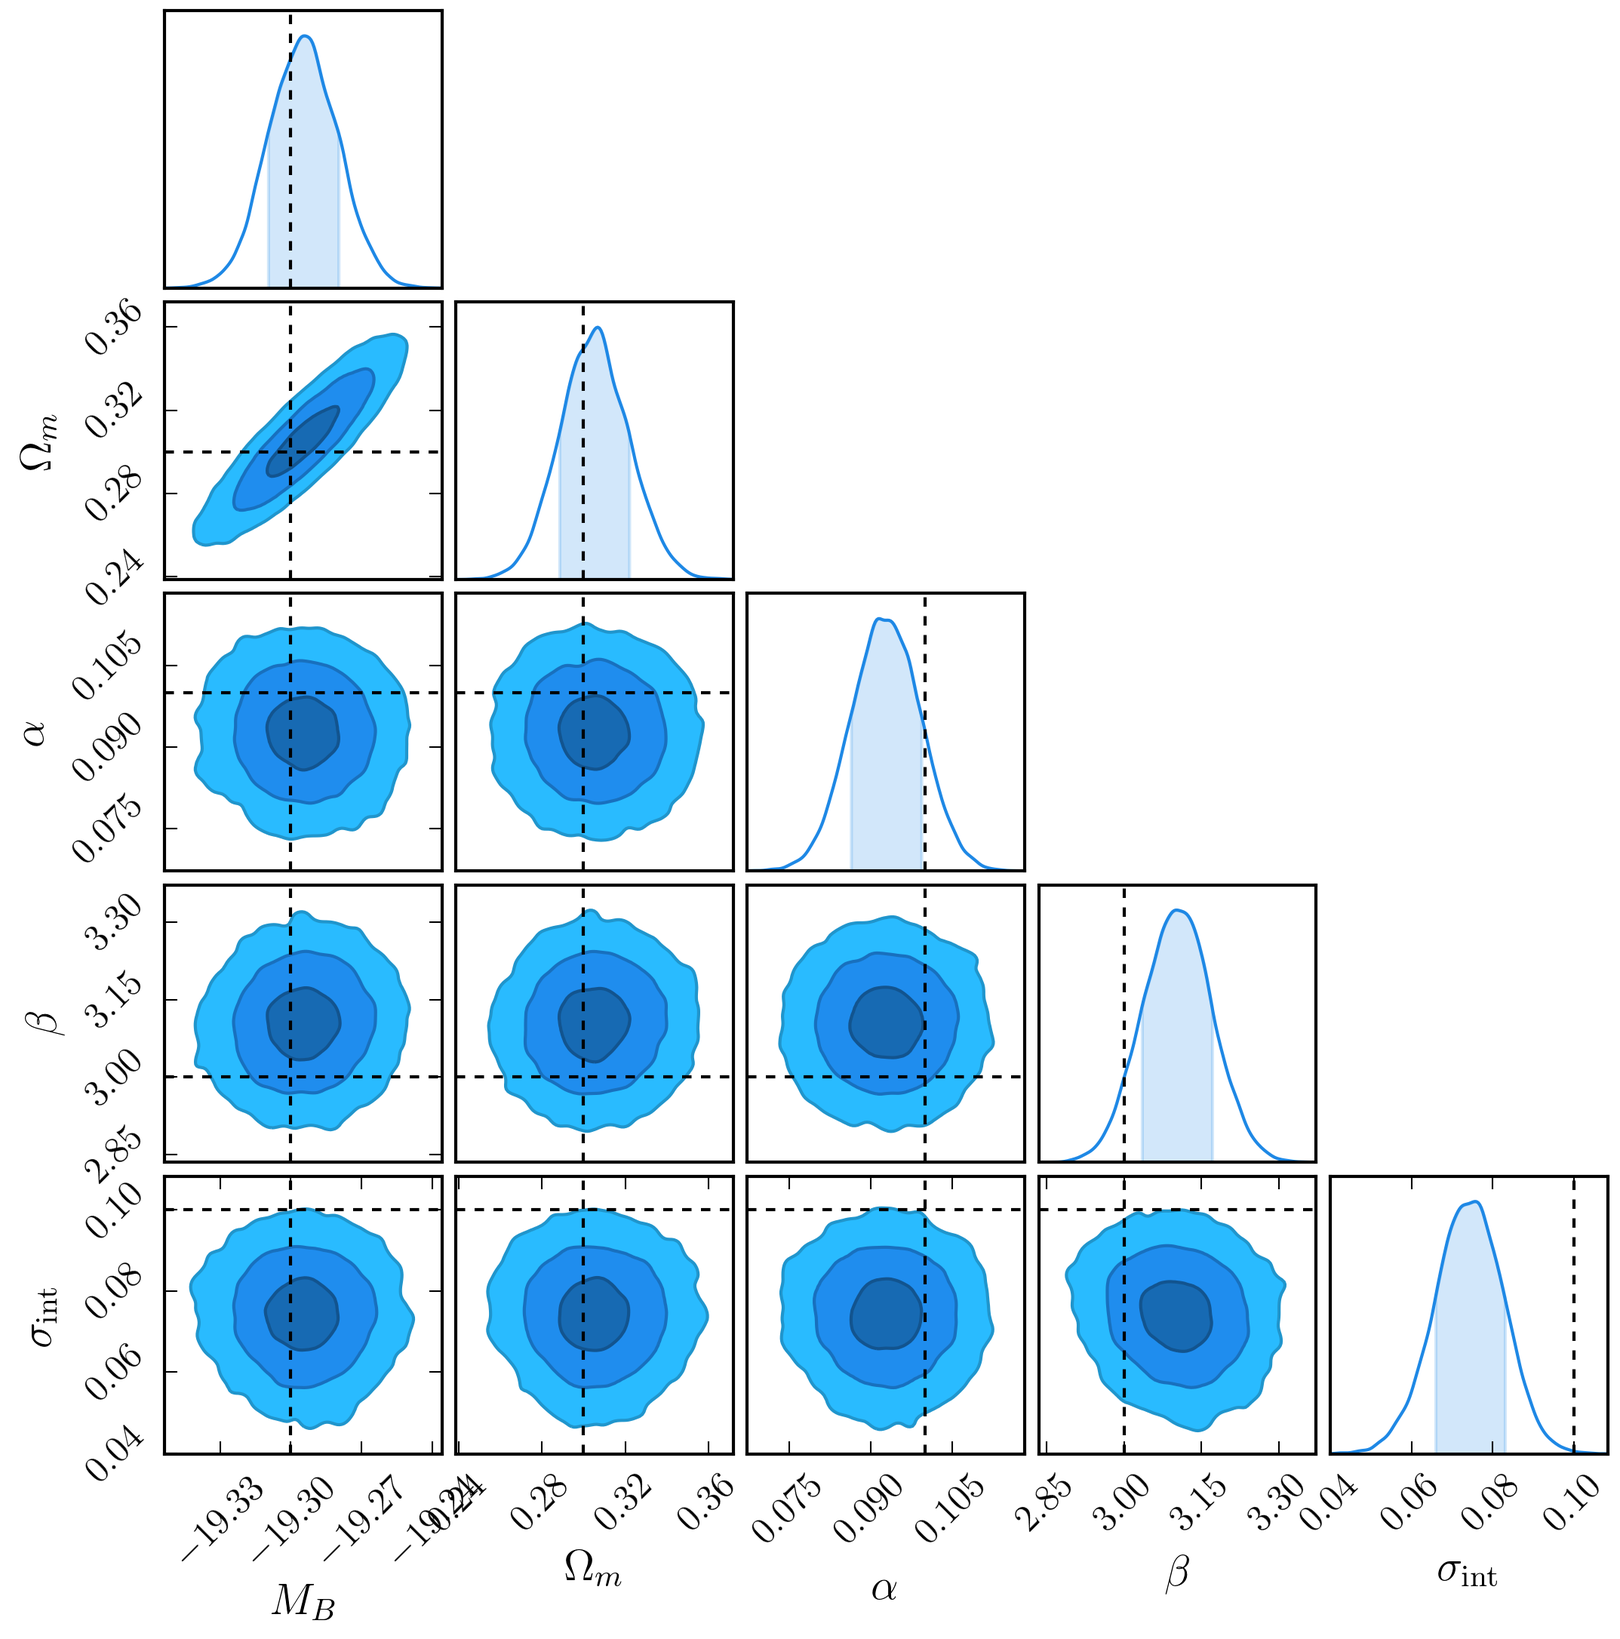
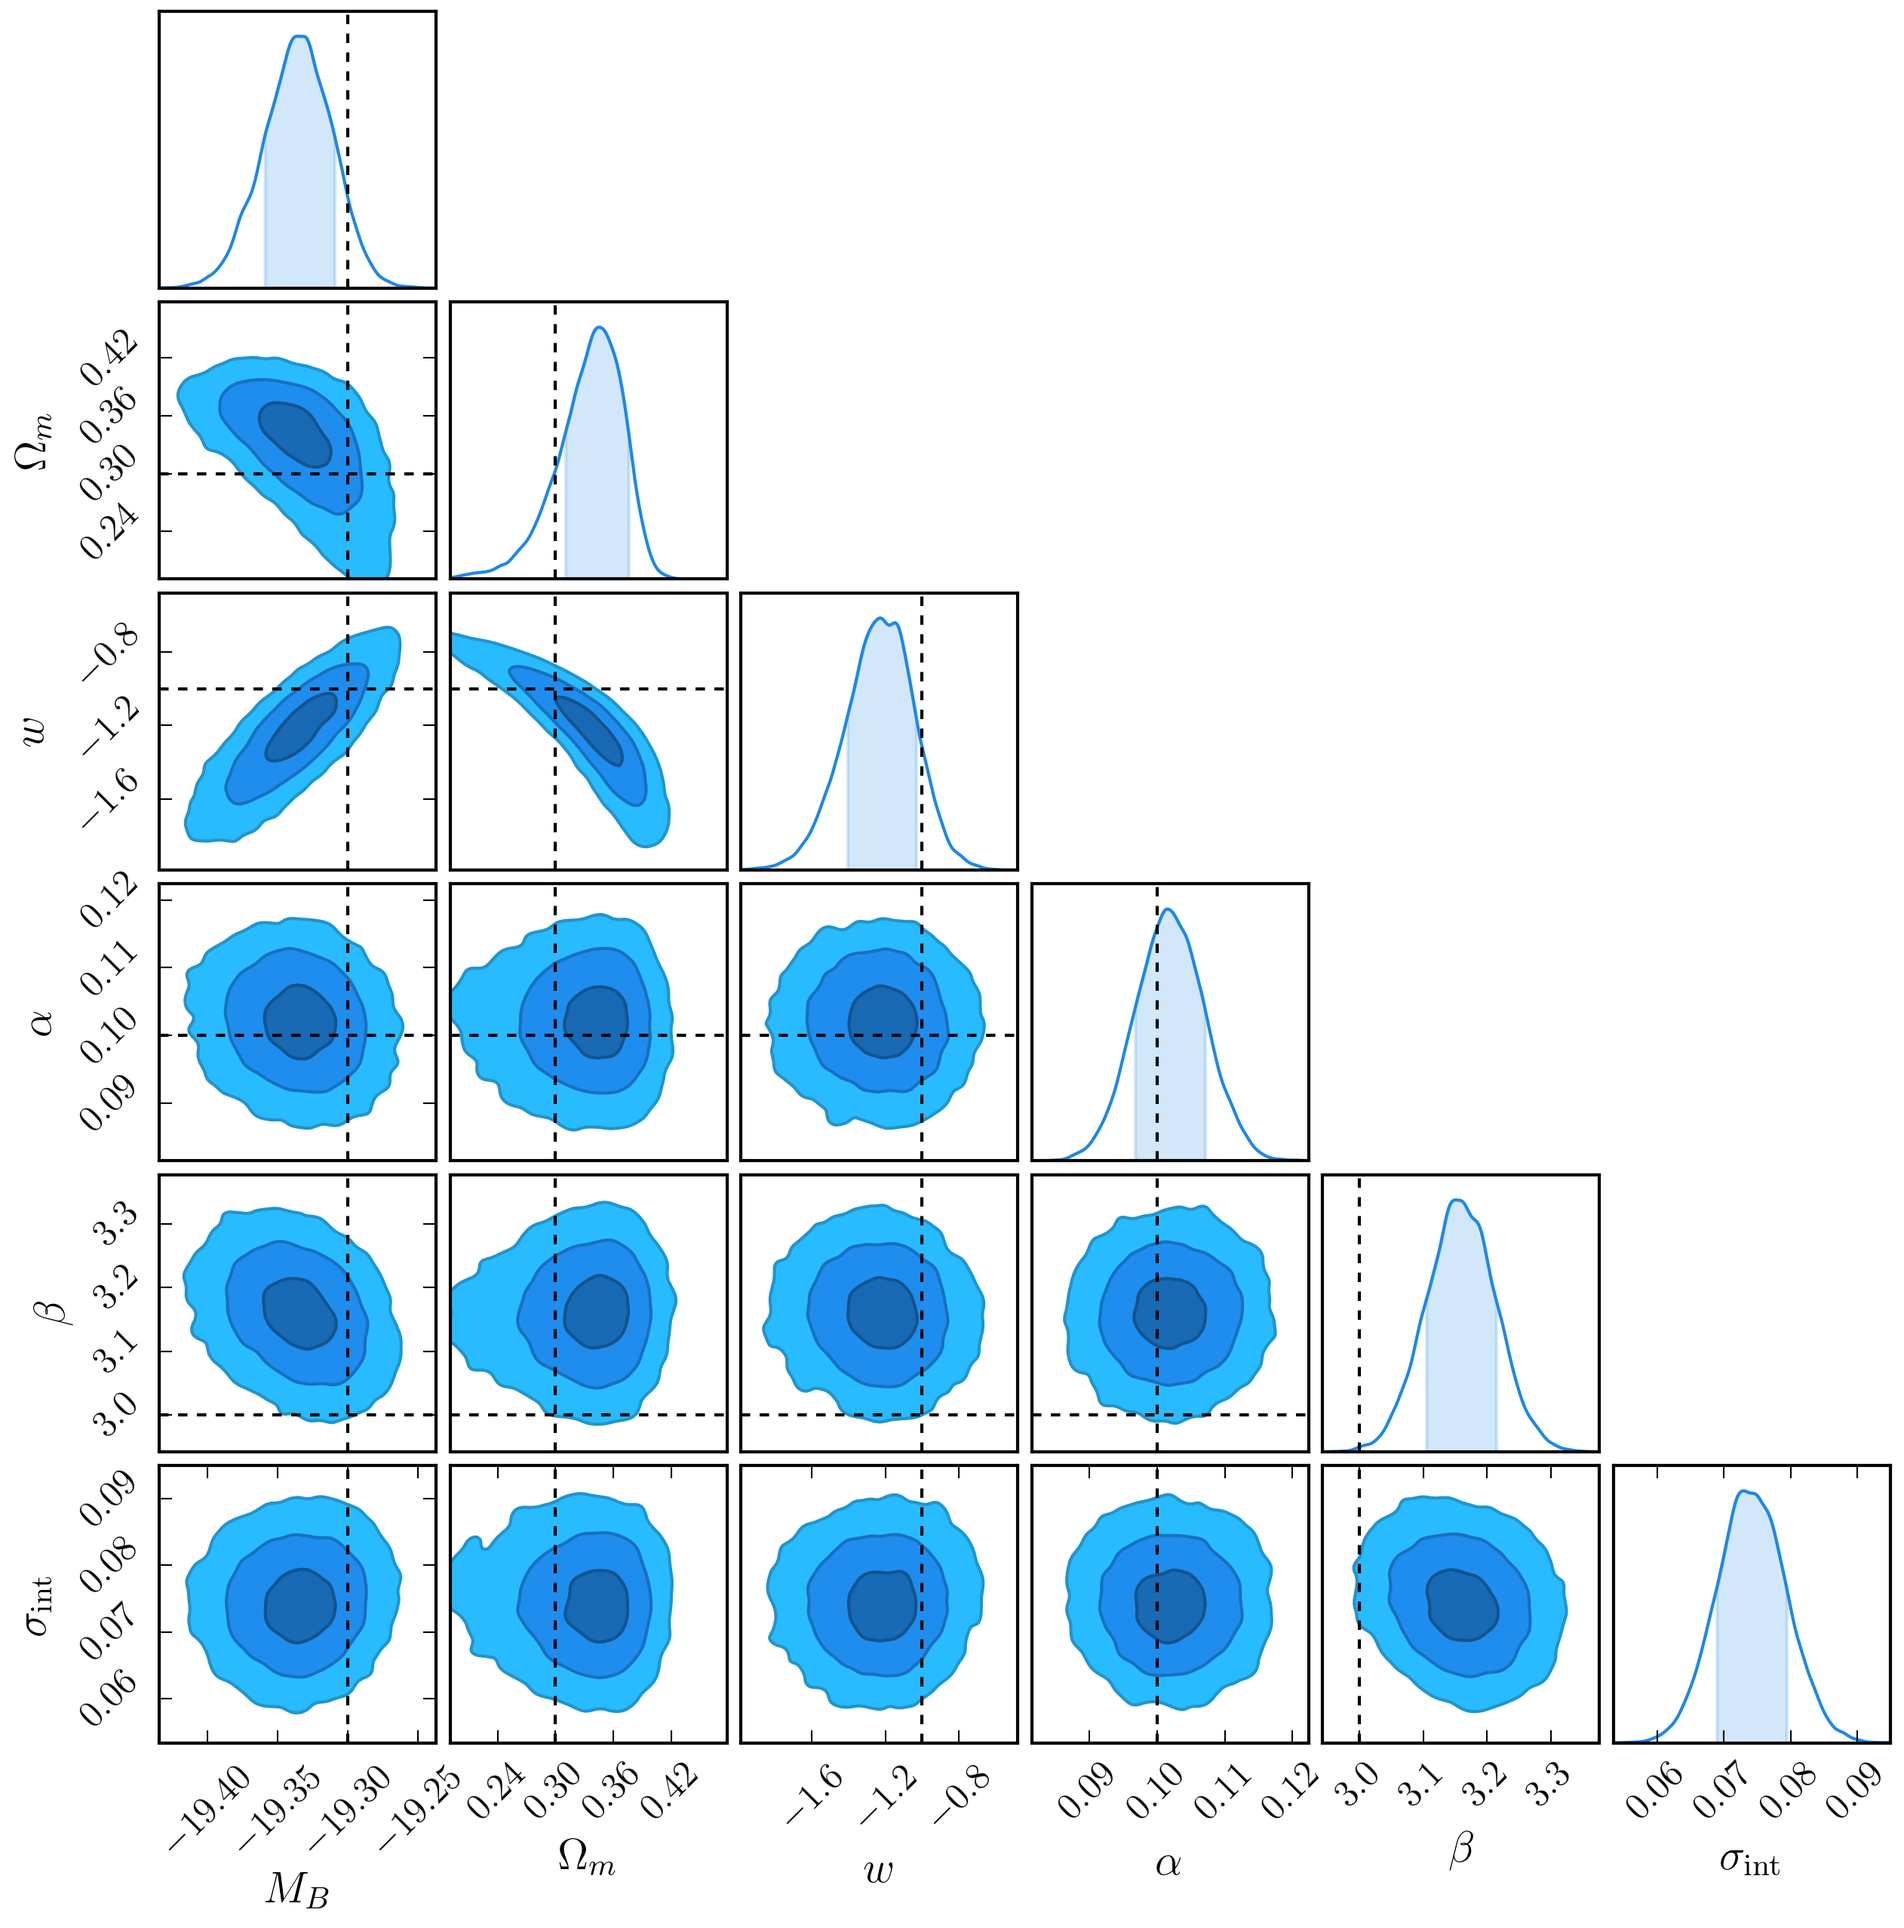
w works, finally. wonder what was wrong

diff --git a/dessn/models/d_simple_stan/run_stan.py b/dessn/models/d_simple_stan/run_stan.py
@@ -3,28 +3,41 @@ import pickle
 from astropy.cosmology import FlatwCDM
 import numpy as np
 from numpy.random import normal
+from scipy.stats import skewnorm
 
 def get_data():
     np.random.seed(0)
     n_sne = 500
-    obs_mBx1c = []
-    obs_mBx1c_cov = []
-    obs_mBx1c_cor = []
-    redshifts = np.linspace(0.05, 1.1, n_sne)
+
     MB = -19.3
     Om = 0.3
     w = -1.0
     H0 = 70.0
     intrinsic = 0.1
-    cosmology = FlatwCDM(H0, Om, w0=w)
-    dist_mod = cosmology.distmod(redshifts).value
     alpha = 0.1
     beta = 3
+
+    c_alpha = 0.0
+    c_loc = 0.1
+    c_scale = 0.1
+
+    x1_alpha = -0.5
+    x1_loc = 0.0
+    x1_scale = 1.0
+
+    obs_mBx1c = []
+    obs_mBx1c_cov = []
+    obs_mBx1c_cor = []
+
+    redshifts = np.linspace(0.05, 1.1, n_sne)
+    cosmology = FlatwCDM(H0, Om, w0=w)
+    dist_mod = cosmology.distmod(redshifts).value
+
     for mu in dist_mod:
-        x1 = np.random.normal(0, 1)
-        c = np.random.normal(0, 0.1)
-        mb = MB + mu - alpha * x1 + beta * c + normal(scale=intrinsic) + normal(scale=0.1)
-        diag = np.array([0.1, 0.02, 0.02])**2
+        x1 = skewnorm.rvs(x1_alpha, loc=x1_loc, scale=x1_scale)
+        c = skewnorm.rvs(c_alpha, loc=c_loc, scale=c_scale)
+        mb = MB + mu - alpha * x1 + beta * c + normal(scale=intrinsic) + normal(scale=0.05)
+        diag = np.array([0.05, 0.02, 0.02])**2
         cov = np.diag(diag)
         cor = cov / np.sqrt(np.diag(cov))[None, :] / np.sqrt(np.diag(cov))[:, None]
         obs_mBx1c_cor.append(cor)
@@ -85,7 +98,8 @@ def init_fn():
         "beta": 3 + normal(scale=0.1),
         "true_c": cs + normal(scale=0.05, size=n_sne),
         "true_x1": x1s + normal(scale=0.1, size=n_sne),
-        "sigma_int": np.random.uniform(0.05, 0.3)
+        "sigma_int": np.random.uniform(0.05, 0.3),
+        "w": normal(loc=-1.0, scale=0.05)
     }
 
 
@@ -100,7 +114,7 @@ if __name__ == "__main__":
     data = get_data()
     import pystan
     sm = pystan.StanModel(file="model.stan", model_name="Cosmology")
-    fit = sm.sampling(data=data, iter=6000, warmup=1000, chains=4, init=init_fn)
+    fit = sm.sampling(data=data, iter=5000, warmup=1000, chains=4, init=init_fn)
     with open(t, 'wb') as output:
-        dictionary = fit.extract(pars=["MB", "Om",  "alpha", "beta", "sigma_int", "PointPosteriors"])
+        dictionary = fit.extract(pars=["MB", "Om", "w", "alpha", "beta", "sigma_int", "PointPosteriors"])
         pickle.dump(dictionary, output)

diff --git a/dessn/models/d_simple_stan/load_stan.py b/dessn/models/d_simple_stan/load_stan.py
@@ -13,7 +13,8 @@ name_map = {
     "alpha": r"$\alpha$",
     "beta": r"$\beta$",
     "MB": "$M_B$",
-    "sigma_int": r"$\sigma_{\rm int}$"
+    "sigma_int": r"$\sigma_{\rm int}$",
+    "w": "$w$"
 }
 with open(t, 'rb') as output:
     chain = pickle.load(output)
@@ -32,7 +33,8 @@ truths = {
     "$w$": -1,
     r"$\sigma_{\rm int}$": 0.1,
     r"$\alpha$": 0.1,
-    r"$\beta$": 3
+    r"$\beta$": 3,
+    r"$w$": -1.0
 }
 c.plot(filename=td+"plot.png", truth=truths)
 # c.plot_walks(filename=td+"walk.png")
